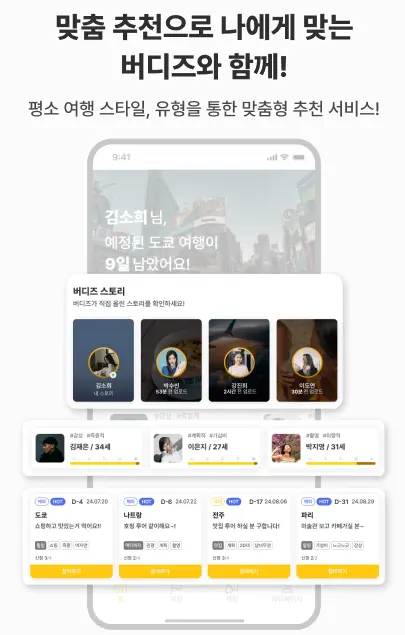
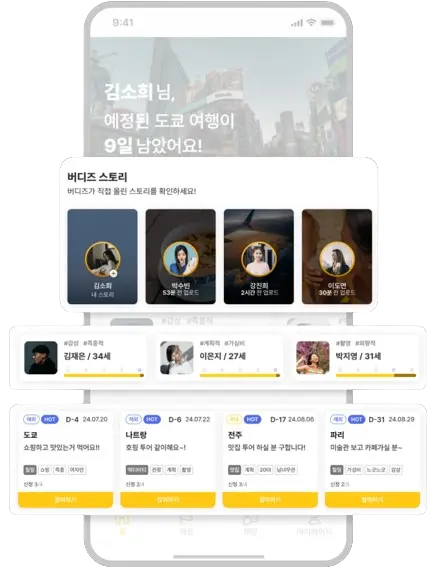
fix:tutorial 이미지 누끼따서 적용

diff --git a/src/components/atoms/tutorial/Tuto.tsx b/src/components/atoms/tutorial/Tuto.tsx
@@ -16,7 +16,7 @@ const Tuto: React.FC<TutoProps> = ({ step }) => {
         1: {
             src: '/images/tuto0.webp',
             alt: '첫 번째 튜토리얼 페이지에서 사용되는 이미지',
-            text: '',
+            text: '각자의 성향대로 즐기는 여행!',
         },
         2: {
             src: '/images/tuto1.webp',
@@ -52,8 +52,8 @@ const Tuto: React.FC<TutoProps> = ({ step }) => {
                         src={src}
                         alt={alt}
                         fill
-                        style={{ objectFit: 'contain' }} // objectFit을 스타일로 설정
-                        sizes="(max-width: 768px) 100vw, (max-width: 1200px) 50vw, 33vw" // 반응형 이미지 크기 설정
+                        style={{ objectFit: 'contain' }}
+                        sizes="(max-width: 768px) 100vw, (max-width: 1200px) 50vw, 33vw"
                     />
                 </div>
             </div>
